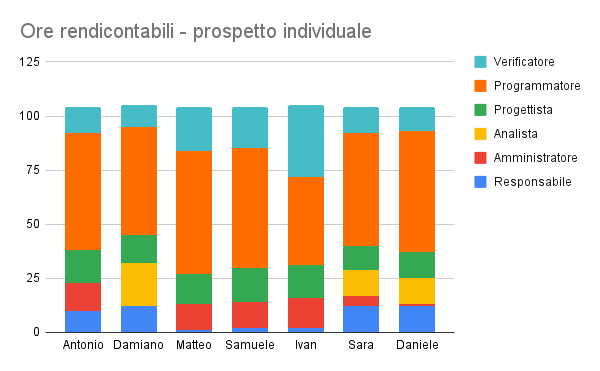
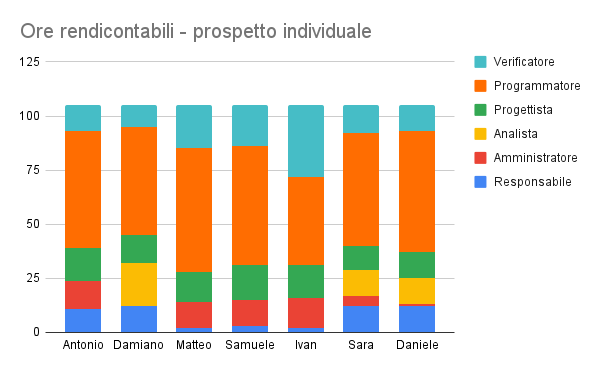
ultimato PdP

diff --git a/esterni/PianoDiProgetto/res/sections/Consuntivo.tex b/esterni/PianoDiProgetto/res/sections/Consuntivo.tex
@@ -404,7 +404,7 @@ Si è deciso di reinvestire le ore risparmiate, nel lavoro di codifica del PoC m
 		\hline
 		\rowcolor{lighter-grayer}
 		Ruolo & Ore & Costo \\ \hline
-		Responsabile & 35(+1) & 1080(+30\euro) \\ \hline
+		Responsabile & 36(+1) & 1080(+30\euro) \\ \hline
 		Amministratore & 31(-9) & 682(-118\euro) \\ \hline
 		Analista & 22(+0) & 550(+0\euro) \\ \hline
 		Progettista & 37(+1) & 888(+24\euro) \\ \hline
@@ -972,7 +972,7 @@ Rispetto al preventivo iniziale (14026\euro) vi è un risparmio di 2\euro~ a fav
 		Verificatore & 119 & 1904 \\ \hline
 		Totale preventivo & 700 & 14026\euro \\ \hline
 		Totale consuntivo & 735 & 14022\euro \\ \hline
-		Totale scostamento & 35 & 6\euro \\ \hline
+		Totale scostamento & 35 & -4\euro \\ \hline
 	\end{tabular}
 	\caption{ Consuntivo\\}
 \end{table}
@@ -984,13 +984,13 @@ Rispetto al preventivo iniziale (14026\euro) vi è un risparmio di 2\euro~ a fav
 	\begin{tabular}{|c|c|c|c|c|c|c|c|}
 		\hline
 		\textbf{}       & \textbf{Antonio} & \textbf{Damiano} & \textbf{Matteo} & \textbf{Samuele} & \textbf{Ivan} & \textbf{Sara} & \textbf{Daniele} \\ \hline
-		\textbf{Responsabile}   & 10 & 12 & 1  & 2  & 2  & 12 & 12 \\ \hline
+		\textbf{Responsabile}   & 11 & 12 & 2  & 3  & 2  & 12 & 12 \\ \hline
 		\textbf{Amministratore} & 13 & 0  & 12 & 12 & 14 & 5  & 1  \\ \hline
 		\textbf{Analista}       & 0  & 20 & 0  & 0  & 0  & 12 & 12 \\ \hline
 		\textbf{Progettista}    & 15 & 13 & 14 & 16 & 15 & 11 & 12 \\ \hline
 		\textbf{Programmatore}  & 54 & 50 & 57 & 55 & 41 & 52 & 56 \\ \hline
-		\textbf{Verificatore}   & 12 & 10 & 20 & 19 & 33 & 12 & 11 \\ \hline
-		\textbf{TOTALE} & \textbf{104}     & \textbf{105}     & \textbf{104}    & \textbf{104}     & \textbf{105}  & \textbf{104}  & \textbf{104}     \\ \hline
+		\textbf{Verificatore}   & 12 & 10 & 20 & 19 & 33 & 13 & 12 \\ \hline
+		\textbf{TOTALE} & \textbf{105}     & \textbf{105}     & \textbf{105}    & \textbf{105}     & \textbf{105}  & \textbf{105}  & \textbf{105}     \\ \hline
 	\end{tabular}
 	\caption{ Ore rendicontabili - prospetto individuale\\}
 \end{table}

diff --git a/esterni/PianoDiProgetto/res/sections/Pianificazione.tex b/esterni/PianoDiProgetto/res/sections/Pianificazione.tex
@@ -547,6 +547,7 @@ Obiettivi di microperiodo:
 		\item impostazione delle postazioni nello stato guasto; 
 		\item impostazione inacessibilità delle stanze;
 		\item visualizzazione della guida;
+		\item disabilitazione utente;
 		\item scrittura test.
 	\end{itemize}
 	\item Relativamente all'app-mobile si intende implementare le seguenti funzionalità:
@@ -587,7 +588,7 @@ Obiettivi di microperiodo:
 	\item Per la web-app si intende:
 	\begin{itemize}
 		\item concludere la stesura dei test;
-		\item ultimare la generazione dei report.
+		\item creazione dell'interfaccia per la visualizzazione dei report.
 	\end{itemize}
 	\item Relativamente all'app-mobile si intende:
 	\begin{itemize}

diff --git a/esterni/PianoDiProgetto/res/registro.tex b/esterni/PianoDiProgetto/res/registro.tex
@@ -10,6 +10,17 @@
 	\endfirsthead
 
 	% ----- Modificare da qui -----
+	4.0.0 & Approvazione del documento & 2021-06-04 & Damiano Bertoldo & Responsabile \\
+	\hline
+	3.0.1 & Modifica e verifica §4.4 §6.4 §6.5  & 2021-06-03 & \begin{tabular}{c c}
+		Antonio Badan \\
+		Samuele De Grandi
+	\end{tabular} & 
+	\begin{tabular}{c c}
+		Responsabile \\
+		Verificatore
+	\end{tabular} \\ 
+	\hline
 	3.0.0 & Approvazione del documento & 2021-05-09 & Damiano Bertoldo & Responsabile \\
 	\hline
 	2.1.2 & Modifica e verifica §4.3 §4.4 §6.3 & 2021-05-08 & \begin{tabular}{c c}

diff --git a/esterni/PianoDiProgetto/main.tex b/esterni/PianoDiProgetto/main.tex
@@ -13,7 +13,7 @@
 
 \newcommand{\docNome}{ PIANO DI PROGETTO }
 \newcommand{\docNomeProgetto}{ BlockCOVID }
-\newcommand{\docVersione}{3.0.0}
+\newcommand{\docVersione}{3.0.1}
 \newcommand{\docStatus}{approvato}
 \newcommand{\docUso}{esterno}
 
@@ -26,7 +26,7 @@
 	DPCM 2077
 }
 \newcommand{\docRedattori}{
-	Daniele Spigolon
+	Antonio Badan
 }
 \newcommand{\docVerificatori}{
 	Samuele De Grandi
